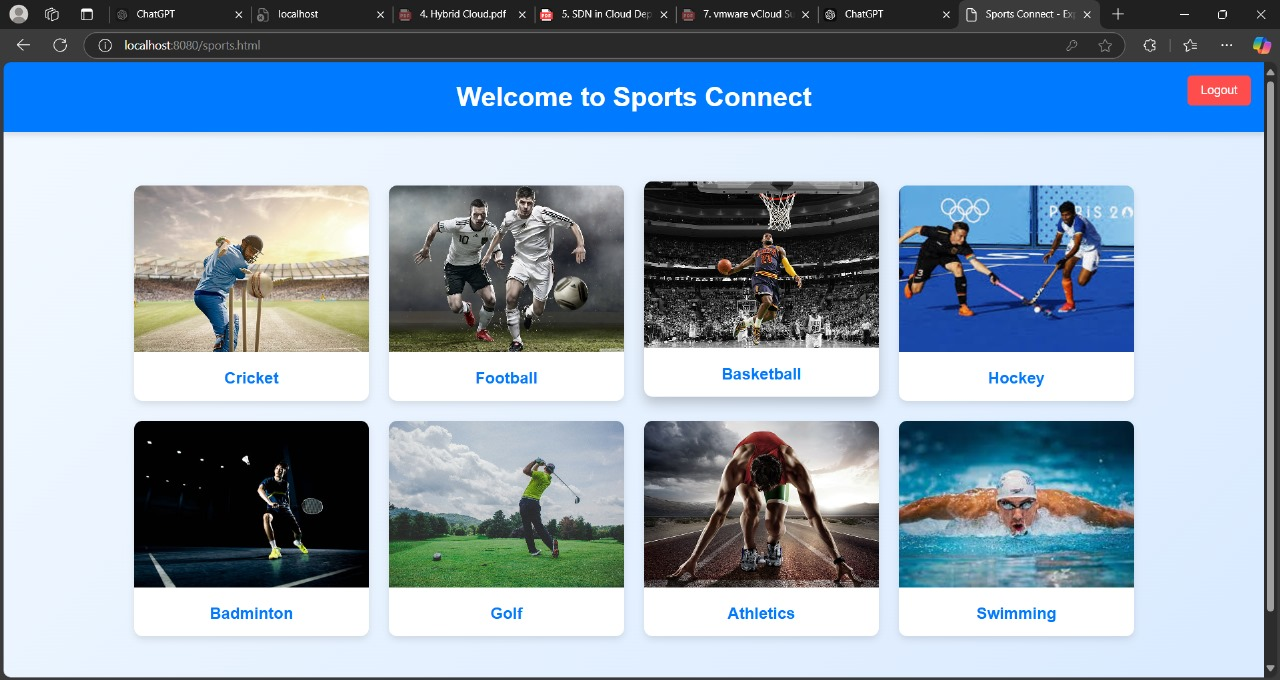
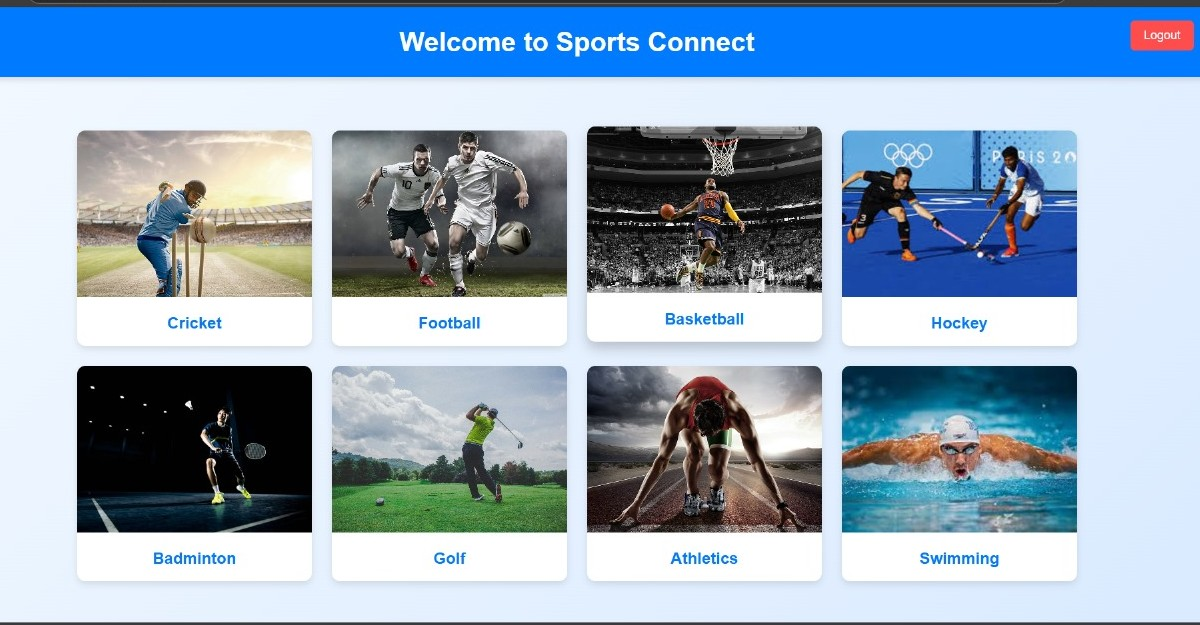
Fix image size styling and update project images

diff --git a/assets/css/style.css b/assets/css/style.css
@@ -1184,6 +1184,13 @@ main {
   border-radius: 14px;
   outline: none;
 }
+.project-img img {
+  width: 100%;           /* makes the image fill its container */
+  height: 150px;         /* set a fixed height */
+  object-fit: cover;     /* ensures image scales nicely without distortion */
+  border-radius: 10px;   /* optional: adds rounded corners for consistency */
+}
+
 
 .form-input::placeholder { font-weight: var(--fw-500); }
 
